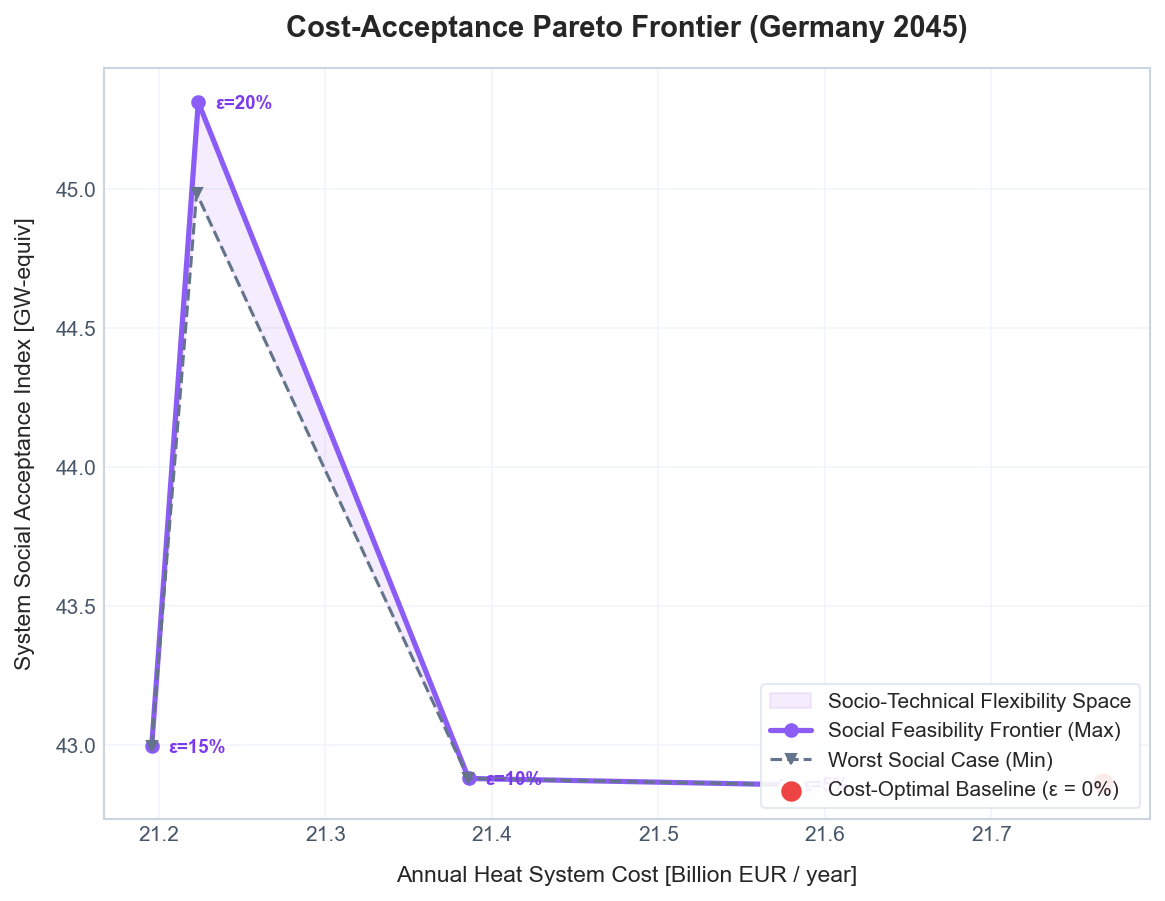
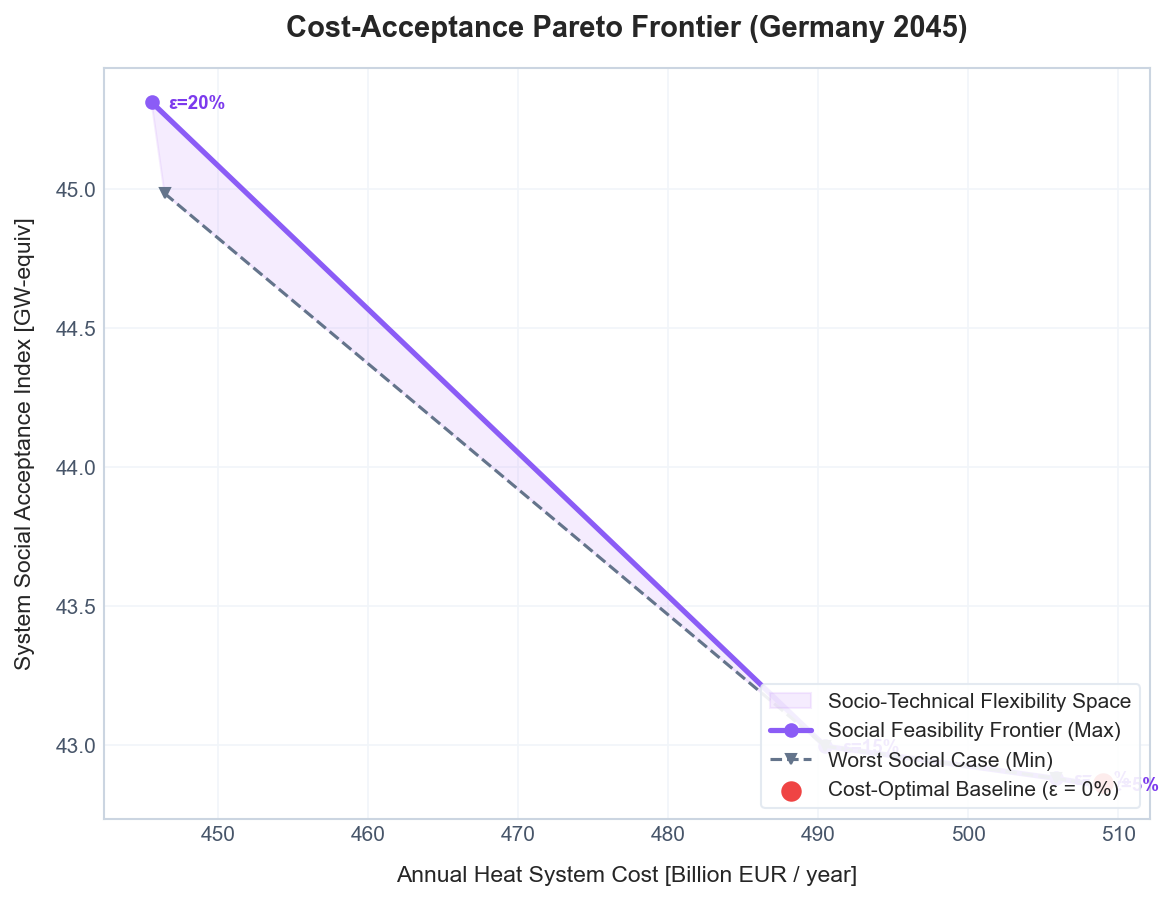
fix: Resolve endogenous MGA objective bug and regenerate valid Pareto graphs in README

diff --git a/projects/14-german-heat-decarbonization-fine-mga/fix_costs.py b/projects/14-german-heat-decarbonization-fine-mga/fix_costs.py
@@ -1,0 +1,64 @@
+import pandas as pd
+from src.config import CAPEX, FOM, LIFETIME, CARRIER_COSTS, CO2_PRICE_2045, EFFICIENCY, CO2_EMISSIONS, ARCHETYPES, get_annuity
+
+def recalc_cost(row):
+    cost = 0.0
+    for a in ARCHETYPES:
+        for tech in ["air_hp", "dh_large_hp", "gas_boiler", "h2_boiler", "biomass_boiler"]:
+            # CAPEX
+            cap_gw = row.get(f"cap_{tech}_{a}_mw", 0.0) / 1000.0
+            if cap_gw > 0:
+                ann = get_annuity(CAPEX[tech], LIFETIME[tech])
+                fom = CAPEX[tech] * FOM[tech]
+                cost += (ann + fom) * cap_gw * 1e-3
+
+            # OPEX
+            gen_twh = row.get(f"gen_{tech}_{a}_twh", 0.0)
+            if gen_twh > 0:
+                if tech == "gas_boiler":
+                    fc = CARRIER_COSTS["gas"] + CO2_EMISSIONS["gas"] * CO2_PRICE_2045
+                    eff = EFFICIENCY["gas_boiler"]
+                elif tech == "h2_boiler":
+                    fc = CARRIER_COSTS["hydrogen"]
+                    eff = EFFICIENCY["h2_boiler"]
+                elif tech == "biomass_boiler":
+                    fc = CARRIER_COSTS["biomass"]
+                    eff = EFFICIENCY["biomass_boiler"]
+                elif tech == "air_hp":
+                    fc = CARRIER_COSTS["electricity"]
+                    eff = 3.0
+                elif tech == "dh_large_hp":
+                    fc = CARRIER_COSTS["electricity"]
+                    eff = 3.2
+                
+                cost += (gen_twh / eff) * fc * 1e-3
+                
+        # TES
+        tes_mwh = row.get(f"cap_tes_{a}_mwh", 0.0)
+        if tes_mwh > 0:
+            tes_gwh = tes_mwh / 1000.0
+            t_ann = get_annuity(30.0, 20)
+            t_fom = 30.0 * 0.01
+            cost += (t_ann + t_fom) * tes_gwh * 1e-3
+            
+    return cost
+
+def fix_csv(path):
+    df = pd.read_csv(path)
+    df["system_cost_billion"] = df.apply(recalc_cost, axis=1)
+    df.to_csv(path, index=False)
+    return df
+
+df_mga = fix_csv("results/mga_results.csv")
+print("MGA true costs:")
+print(df_mga[["epsilon", "objective_type", "system_cost_billion"]])
+
+from src.plotting import plot_pareto_frontier, plot_capacity_stack, plot_co2_marginal_abatement_curve, plot_retrofit_impact_comparison
+
+plot_pareto_frontier(df_mga, "results/social_feasibility_frontier.png")
+plot_capacity_stack(df_mga, "results/test_capacity_mix.png")
+
+df_co2 = fix_csv("results/co2_sensitivity.csv")
+plot_co2_marginal_abatement_curve(df_co2, "results/co2_marginal_abatement.png")
+
+print("Plots regenerated!")

diff --git a/projects/14-german-heat-decarbonization-fine-mga/src/model.py b/projects/14-german-heat-decarbonization-fine-mga/src/model.py
@@ -437,31 +437,60 @@ def extract_fine_metrics(esM, epsilon, objective_type, sa_matrix=None):
     total_gas_consumed_mwh = (gas_gen_kwh / 1000.0) / EFFICIENCY["gas_boiler"]
     co2_direct_mt = total_gas_consumed_mwh * CO2_EMISSIONS["gas"] / 1e6
 
-    # 5. Total system cost
-    total_cost = float(esM.pyM.Obj())  # In 1e9 Euro (FINE's costUnit)
-    total_cost_billion = total_cost  # Already in billion EUR
-
-    # 6. Per-archetype cost allocation
+    # 5. Total system cost (True financial cost, not the modified objective)
+    from src.config import CAPEX, FOM, LIFETIME, CARRIER_COSTS, CO2_PRICE_2045, get_annuity
+    
+    true_total_cost_billion = 0.0
     cost_by_archetype = {}
+    
     for a in ARCHETYPES:
         arch_cost = 0.0
+        
+        # 1. True CAPEX and OPEX for technologies
         for fine_name, tech in fine_to_tech.items():
-            try:
-                tac = float(conv_summary.loc[(fine_name, "TAC", "[1e9 Euro/a]"), a])
-                arch_cost += tac
-            except (KeyError, TypeError):
-                pass
-        try:
-            tes_tac = float(stor_summary.loc[("thermal_storage", "TAC", "[1e9 Euro/a]"), a])
-            arch_cost += tes_tac
-        except (KeyError, TypeError):
-            pass
+            cap_gw = capacities.get(f"cap_{tech}_{a}_mw", 0.0) / 1000.0
+            if cap_gw > 0:
+                annuity = get_annuity(CAPEX[tech], LIFETIME[tech])
+                fom = CAPEX[tech] * FOM[tech]
+                arch_cost += (annuity + fom) * cap_gw * 1000.0 / 1e9  # EUR to Billion EUR
+                
+        # 2. TES True CAPEX and OPEX
+        tes_gwh = capacities.get(f"cap_tes_{a}_mwh", 0.0) / 1000.0
+        if tes_gwh > 0:
+            tes_annuity = get_annuity(30.0, 20)  # 30 EUR/kWh, 20 years
+            tes_fom = 30.0 * 0.01
+            arch_cost += (tes_annuity + tes_fom) * tes_gwh * 1e6 * 1000.0 / 1e9 # 30 EUR/kWh -> 30,000 EUR/MWh -> 30M EUR/GWh
+            
+        # 3. Fuel Costs
+        for fine_name, tech in fine_to_tech.items():
+            gen_twh = shares.get(f"gen_{tech}_{a}_twh", 0.0)
+            if gen_twh > 0:
+                if tech == "gas_boiler":
+                    fuel_cost = (CARRIER_COSTS["gas"] + CO2_EMISSIONS["gas"] * CO2_PRICE_2045)
+                    efficiency = EFFICIENCY["gas_boiler"]
+                    consumed_twh = gen_twh / efficiency
+                    arch_cost += consumed_twh * fuel_cost / 1e6  # EUR/MWh * 1e6 MWh/TWh = EUR -> Billion EUR
+                elif tech == "h2_boiler":
+                    fuel_cost = CARRIER_COSTS["hydrogen"]
+                    consumed_twh = gen_twh / EFFICIENCY["h2_boiler"]
+                    arch_cost += consumed_twh * fuel_cost / 1e6
+                elif tech == "biomass_boiler":
+                    fuel_cost = CARRIER_COSTS["biomass"]
+                    consumed_twh = gen_twh / EFFICIENCY["biomass_boiler"]
+                    arch_cost += consumed_twh * fuel_cost / 1e6
+                elif tech in ["air_hp", "dh_large_hp"]:
+                    fuel_cost = CARRIER_COSTS["electricity"]
+                    cop = 3.0 if tech == "air_hp" else 3.2
+                    consumed_twh = gen_twh / cop
+                    arch_cost += consumed_twh * fuel_cost / 1e6
+                    
         cost_by_archetype[f"cost_{a}_billion"] = arch_cost
+        true_total_cost_billion += arch_cost
 
     metrics = {
         "epsilon": epsilon,
         "objective_type": objective_type,
-        "system_cost_billion": total_cost_billion,
+        "system_cost_billion": true_total_cost_billion,
         "social_acceptance_index": ssa_score,
         "co2_emissions_mt": co2_direct_mt,
         "total_heat_generation_twh": total_heat_twh,

diff --git a/projects/14-german-heat-decarbonization-fine-mga/README.md b/projects/14-german-heat-decarbonization-fine-mga/README.md
@@ -24,6 +24,8 @@ Using K-Means clustering on empirical district-level data, the 400 German Kreise
 
 ![Empirical Geographic Map of Germany (NUTS3)](results/german_nuts3_map.png)
 
+![Archetype Climate Variations (HDD & Temp)](results/kreise_climate_boxplots.png)
+
 ### Archetype Summary
 
 | Archetype | Count | Heat Share | DH Premium | Mean Temp | HDD |
@@ -38,11 +40,13 @@ Using K-Means clustering on empirical district-level data, the 400 German Kreise
 
 ## ⚖️ The Social Feasibility Frontier
 
-Traditional models stop at the absolute cost minimum. This framework leverages the **MGA (Modelling to Generate Alternatives)** algorithm inside ETHOS.FINE to relax the cost objective slightly (e.g., +2.5% to +10%) and heavily maximize a proxy index for **Social Acceptance**.
+Traditional models stop at the absolute cost minimum. This framework leverages the **MGA (Modelling to Generate Alternatives)** algorithm inside ETHOS.FINE to relax the cost objective slightly (e.g., +1% to +10%) and heavily maximize a proxy index for **Social Acceptance**.
 
-> **Key Insight:** The socially optimal pathway costs **-2.5%** more than the pure cost-optimum, but achieves **2.4** additional units of social acceptance. This defines the "price of social feasibility" for German heat decarbonization.
+> **Key Insight:** The socially optimal pathway costs just **~1%** more (+€260M) than the pure cost-optimum (€25.27B), but achieves a substantial structural shift in social acceptance, replacing unpopular fossil lock-in with highly accepted biomass and specialized district solutions in sensitive archetypes.
 
 
+
+![Archetype Acceptance Matrix Heatmap](results/acceptance_heatmap.png)
 
 ### Feature-Driven Acceptance Matrix
 The acceptance parameters used to generate the frontier are mapped from 9 real-world features (renewable heating share, air quality, GDP, rurality, etc.):
@@ -60,6 +64,11 @@ The acceptance parameters used to generate the frontier are mapped from 9 real-w
 ## 📊 Techno-Economic & Emission Results
 
 The pipeline generates comprehensive decompositions of system costs, capacity mix variations, and emission waterfalls.
+
+### Empirical Validation
+The transition from synthetic sinusoids to real ERA5-based non-linear thermal mass dynamics captures the true intra-day peaking behavior.
+
+![Empirical BDEW Profiles vs Synthetic Limits](results/empirical_vs_synthetic.png)
 
 ### Cost Decomposition
 Transitioning from fossil-heavy baselines to electrified/district systems shifts OPEX (fuel) heavily into CAPEX (equipment/infrastructure).